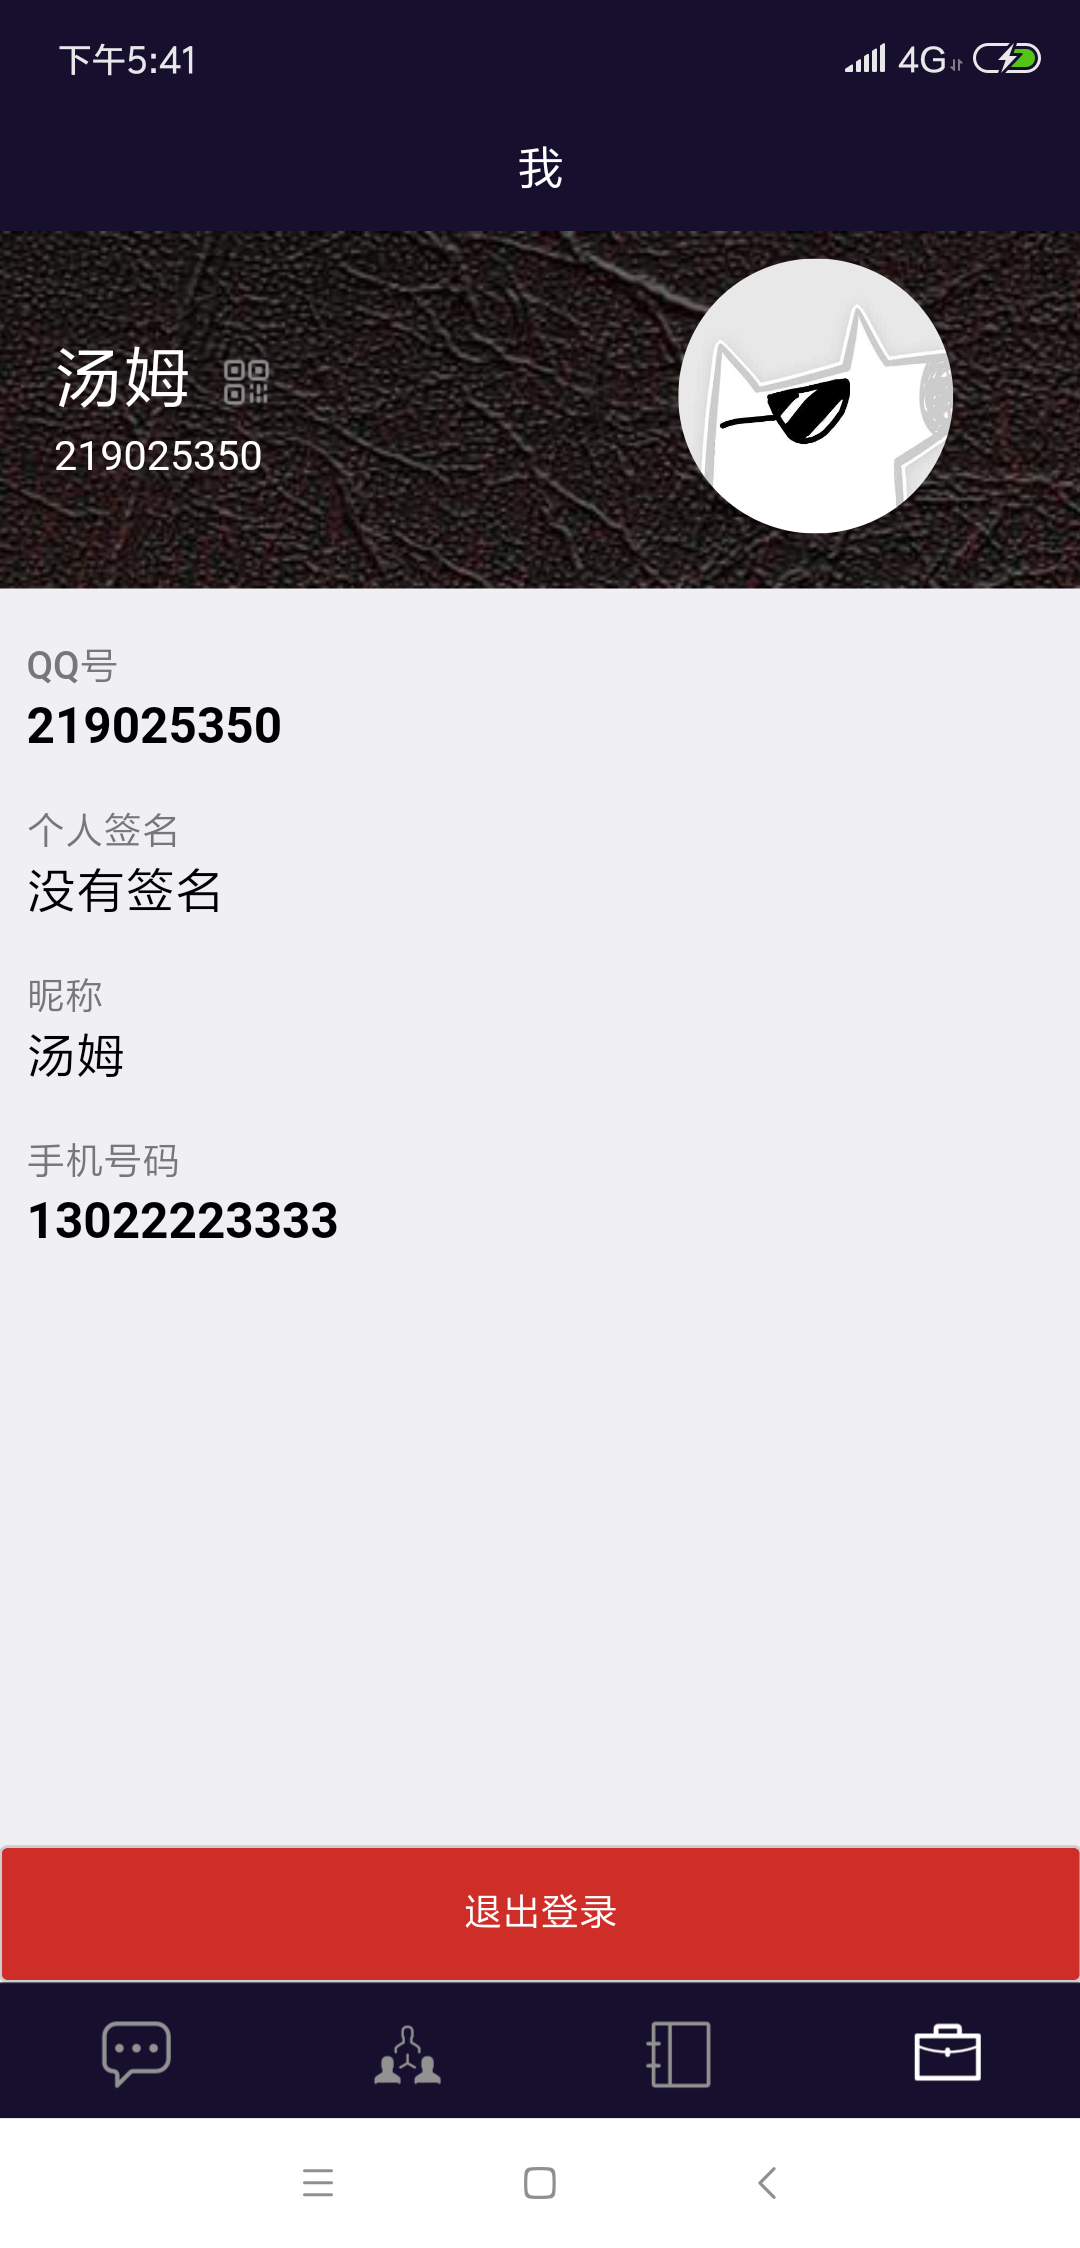
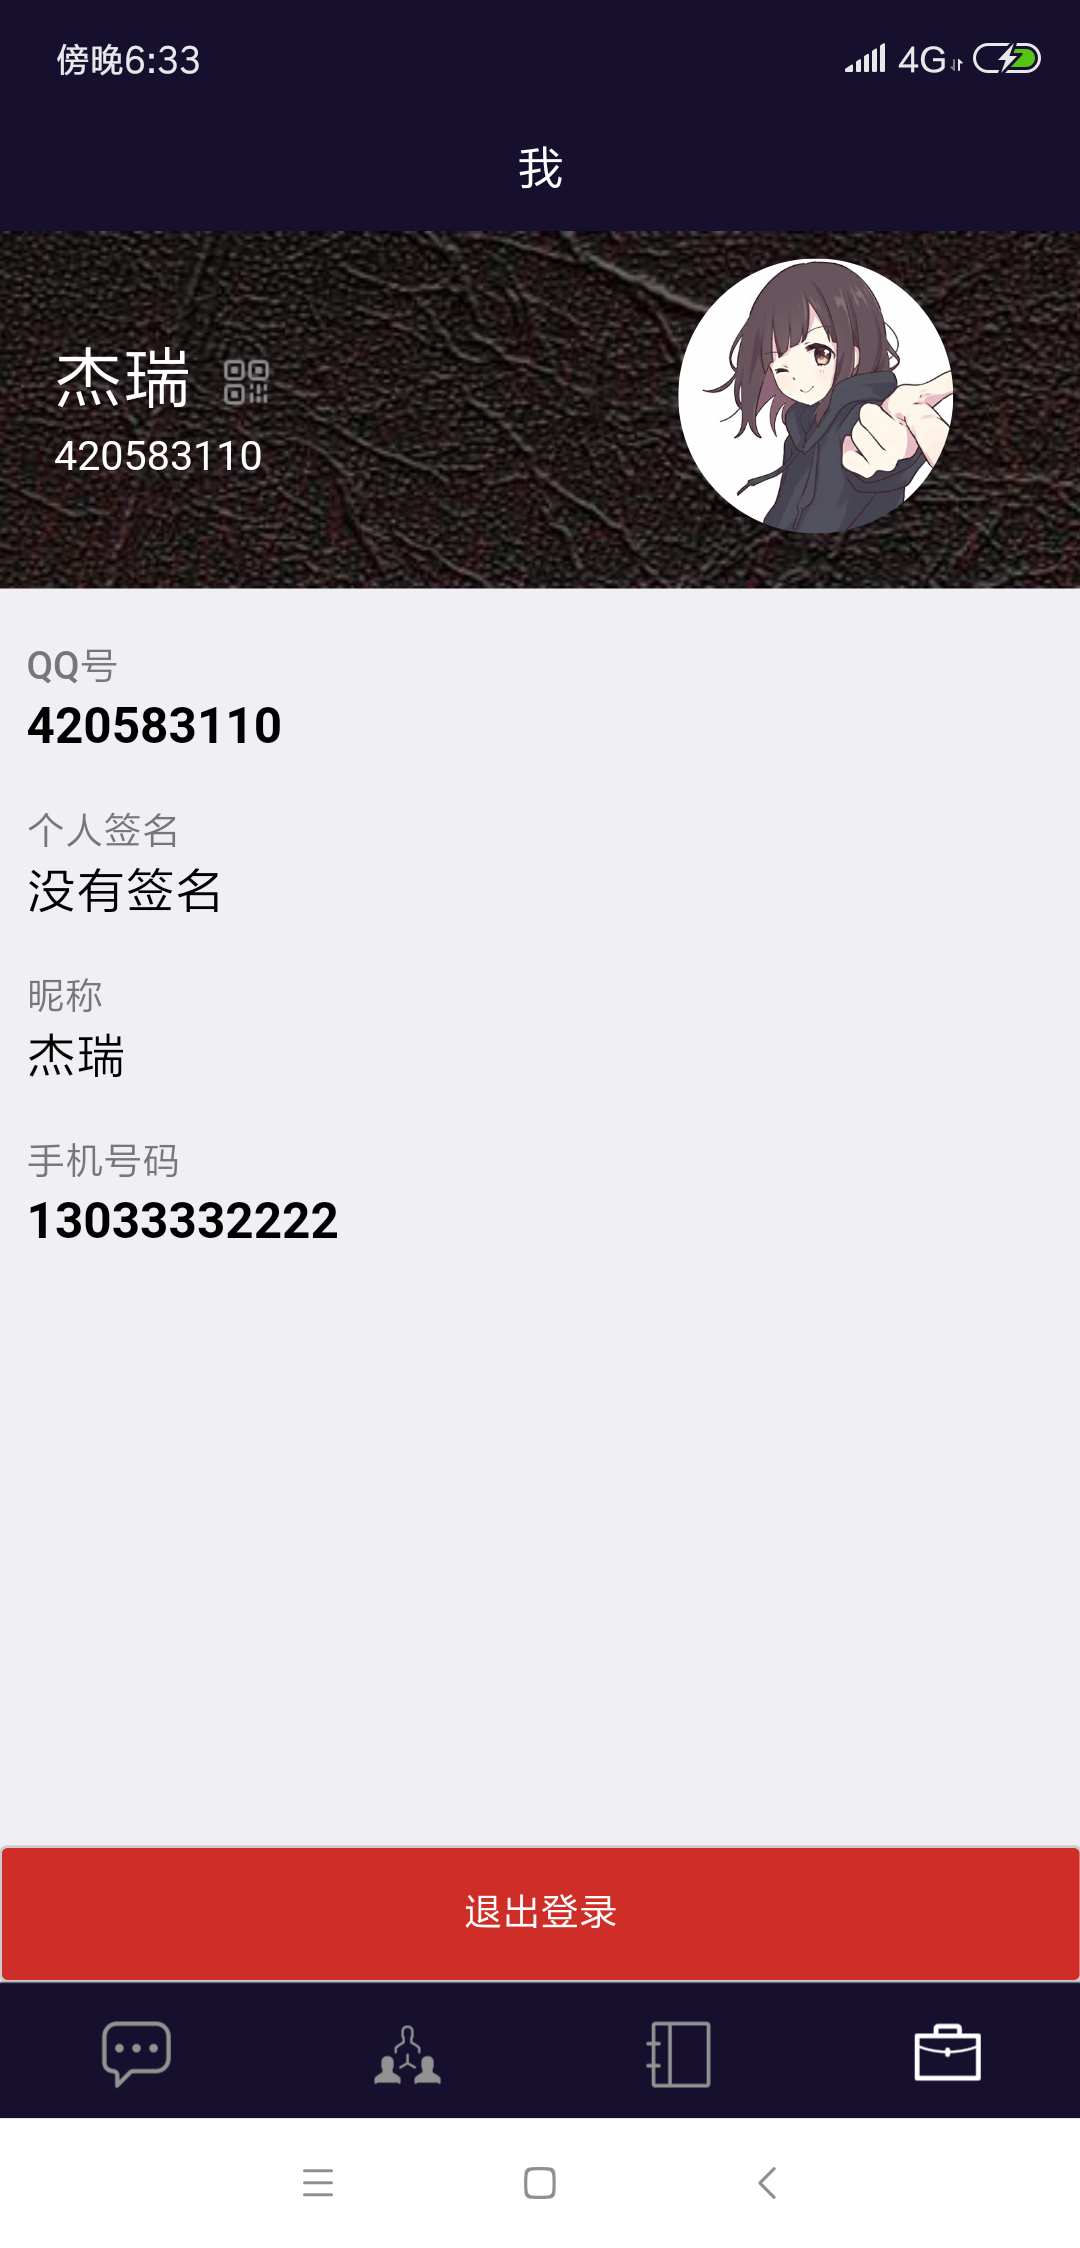
更换图片

diff --git a/readme.md b/readme.md
@@ -11,7 +11,7 @@
 5. 二维码添加好友更换剪切头像
 
 ## 效果
-<img src="./showImage/mePage.png" width ='400' height='800' /><img src="./showImage/saoyisao.png" width ='400' height='800' />
+<img src="./showImage/mePage.png" width ='400' height='800' /><img src="./showImage/qrme.png" width ='400' height='800' />
 <img src="./showImage/noRead.png" width ='400' height='800' /><img src="./showImage/request.png" width ='400' height='800' />
 <img src="./showImage/single1.png" width ='400' height='800' /><img src="./showImage/single2.png" width ='400' height='800' />
 <img src="./showImage/group1.png" width ='400' height='800' /><img src="./showImage/group2.png" width ='400' height='800' />
